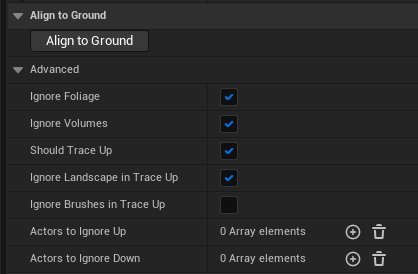
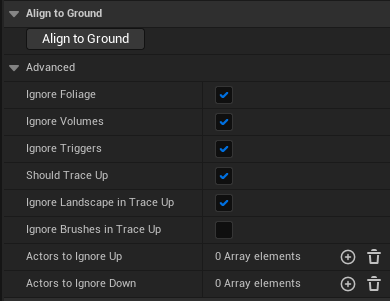
Added information about Ignore Triggers feature

diff --git a/_documentation/rushhour/02-creatingananimation.md b/_documentation/rushhour/02-creatingananimation.md
@@ -45,7 +45,7 @@ Grab one of those handles, and move it around. You'll see the curve change.
 
 Aligning To Ground is an important step in the process. Rush Hour measures ground slope at each waypoint for extra information when determining speed. Slope affects cornering and braking performance, and this is important information. It's a simple process, in the details panel on the right, just click "Align To Ground".
 
-You should see all the points jump around 50cm off the ground (although, over elevation changes you may see the path line go through the ground). If they are still touching the ground, please see [Adjust Curve](#advanced-options)
+You should see all the points jump around 50cm off the ground (although, over elevation changes you may see the path line go through the ground). If they are still touching the ground, please see [Adjust Curve](#advanced-options) and the advanced options as described below.
 
 ![Align To Ground]({{ site.url }}/assets/products/rushhour/documentation/placepath/aligntoground.png){: .enable-lightbox}
 
@@ -71,6 +71,10 @@ This option will ignore InstancedFoliageActors, typically foliage placed with th
 #### Ignore Volumes
 
 This option will ignore Volume actors. This is useful if you have a volume to trigger an event or interact with the vehicle in some way, but you don't want the path affected by the volume. If this is off you will see the waypoints inside a volume raise ~50cm every time you press Align To Ground.
+
+#### Ignore Triggers
+
+This option will ignore trigger actors. This is useful if you have a trigger for an event or interact with the vehicle in some way, but you don't want the path affected by the trigger. If this is off you will see the waypoints inside a trigger raise ~50cm every time you press Align To Ground.
 
 #### Should Trace Up
 
